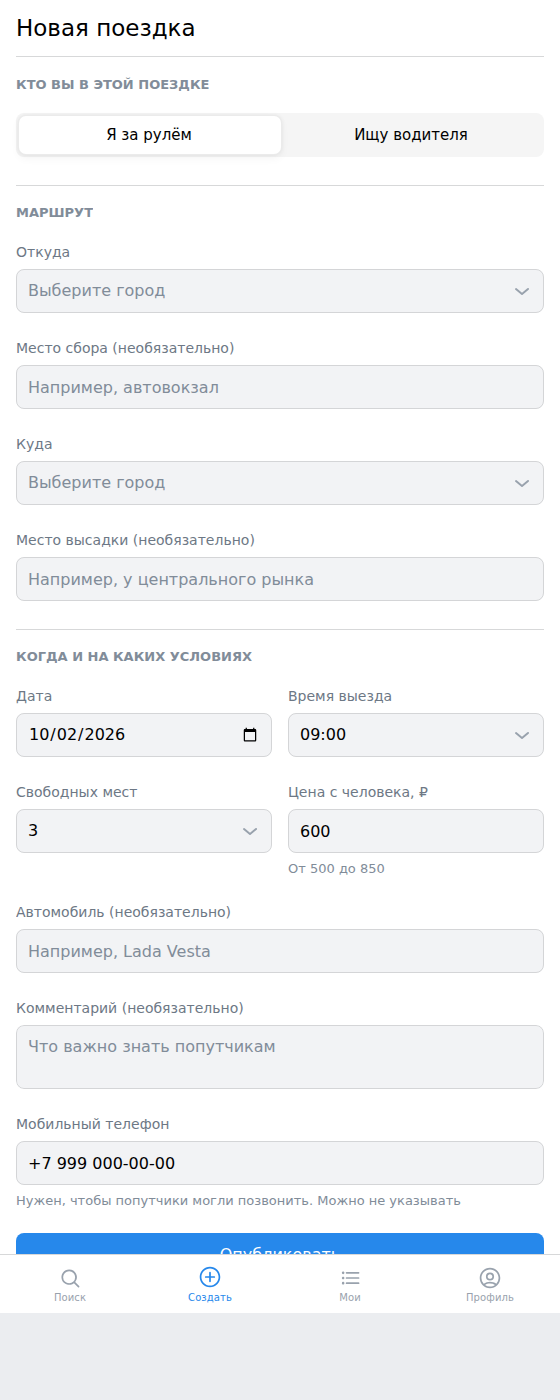
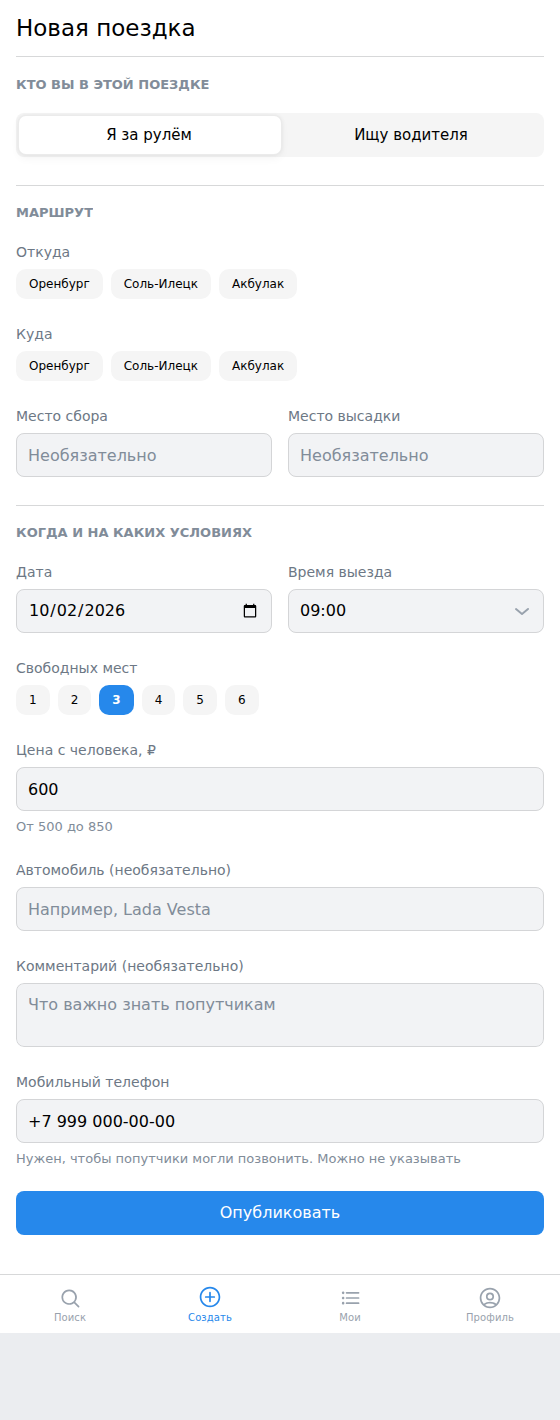
style: форма создания говорит тем же языком, что и поиск
Направление в форме выбиралось двумя выпадающими списками, хотя в поиске
те же три города выбираются «таблетками». Городов три, набор закрытый —
список был лишним шагом: открыть, выбрать, закрыть вместо одного касания.

- Откуда и Куда — «таблетки», как в поиске. Второй ряд сужается до
  достижимых городов, невозможный маршрут нельзя собрать.
- Места — «таблетки» 1–6: шесть однозначных чисел помещаются в строку, и
  выпадающий список ради них открывать незачем.
- Места сбора и высадки переехали под оба города и встали в одну строку.
  Раньше они стояли между «Откуда» и «Куда» и разрывали маршрут пополам.
- Цена освободилась от горизонтальной группы и занимает всю ширину.
- Подсказки «Например, автовокзал» заменены на «Необязательно»: в поле,
  которое и так подписано «Место сбора», пример занимал место, а
  необязательность поля была видна только из подписи.

Выпадающий список остался там, где вариантов правда много — время выезда,
48 слотов. Роль осталась сегмент-контролом: выбор из двух
взаимоисключающих вариантов он показывает лучше, чем два ярлыка.

Вся форма теперь помещается в один экран без прокрутки до кнопки.

eslint и typecheck чисты, 112 тестов API и 35 веба проходят, сборка
549.25 kB.

Claude-Session: https://claude.ai/code/session_01RjM5KUjrPyMD97q32CVPv1

diff --git a/apps/web/src/panels/CreatePanel.tsx b/apps/web/src/panels/CreatePanel.tsx
@@ -29,15 +29,16 @@ import {
 import { useState, type ReactNode } from 'react';
 
 import { ApiRequestError, api } from '../api/client.js';
+import { FilterChips, type ChipOption } from '../components/FilterChips.js';
 import { PhoneField } from '../components/PhoneField.js';
 import { toDateInputValue } from '../lib/format.js';
 import { useSession } from '../lib/SessionContext.js';
 import { useSnackbar } from '../lib/SnackbarContext.js';
 
-const toOptions = (cities: readonly { name: string }[]) =>
-  cities.map((city) => ({ value: city.name, label: city.name }));
-
-const allCityOptions = toOptions(CITIES);
+const cityChips: readonly ChipOption<string>[] = CITIES.map((city) => ({
+  value: city.name,
+  label: city.name,
+}));
 
 /** 48 получасовых слотов суток — время выезда выбирается только из них. */
 const timeOptions = DEPART_TIME_SLOTS.map((slot) => ({ value: slot, label: slot }));
@@ -49,7 +50,7 @@ const timeOptions = DEPART_TIME_SLOTS.map((slot) => ({ value: slot, label: slot 
  * зато он пускал в поле пустую строку, «3.5» и «e», а на телефоне
  * поднимал цифровую клавиатуру поверх формы ради одного нажатия.
  */
-const seatOptions = SEAT_OPTIONS.map((count) => ({
+const seatChips: readonly ChipOption<string>[] = SEAT_OPTIONS.map((count) => ({
   value: String(count),
   label: String(count),
 }));
@@ -219,8 +220,10 @@ export function CreatePanel({ id }: { id: string }): ReactNode {
 
   // Направления закрытые: показываем только достижимые города,
   // чтобы невозможный маршрут нельзя было и собрать.
-  const toCityOptions =
-    form.fromCity === '' ? allCityOptions : toOptions(destinationsFrom(form.fromCity));
+  const toCityChips: readonly ChipOption<string>[] =
+    form.fromCity === ''
+      ? cityChips
+      : destinationsFrom(form.fromCity).map((city) => ({ value: city.name, label: city.name }));
 
   const pickFromCity = (value: string): void => {
     update('fromCity', value);
@@ -249,28 +252,22 @@ export function CreatePanel({ id }: { id: string }): ReactNode {
       </Group>
 
       <Group header={<Header size="s">Маршрут</Header>}>
+        {/*
+          Те же «таблетки», что в поиске. Городов три, набор закрытый —
+          выпадающий список здесь был лишним шагом: открыть, выбрать,
+          закрыть вместо одного касания. Заодно оба города видны рядом, и
+          маршрут читается целиком, а не двумя полями через форму.
+        */}
         <FormItem
           top="Откуда"
           status={errors['fromCity'] === undefined ? 'default' : 'error'}
           bottom={errors['fromCity']}
         >
-          <CustomSelect
-            placeholder="Выберите город"
-            options={allCityOptions}
-            value={form.fromCity === '' ? null : form.fromCity}
-            onChange={(_, value) => {
-              pickFromCity(value === null ? '' : String(value));
-            }}
-          />
-        </FormItem>
-        <FormItem top="Место сбора (необязательно)">
-          <Input
-            maxLength={LIMITS.POINT_MAX}
-            placeholder="Например, автовокзал"
-            value={form.fromPoint}
-            onChange={(event) => {
-              update('fromPoint', event.target.value);
-            }}
+          <FilterChips
+            ariaLabel="Город отправления"
+            options={cityChips}
+            value={form.fromCity}
+            onChange={pickFromCity}
           />
         </FormItem>
 
@@ -279,25 +276,41 @@ export function CreatePanel({ id }: { id: string }): ReactNode {
           status={errors['toCity'] === undefined ? 'default' : 'error'}
           bottom={errors['toCity']}
         >
-          <CustomSelect
-            placeholder="Выберите город"
-            options={toCityOptions}
-            value={form.toCity === '' ? null : form.toCity}
-            onChange={(_, value) => {
-              update('toCity', value === null ? '' : String(value));
+          <FilterChips
+            ariaLabel="Город назначения"
+            options={toCityChips}
+            value={form.toCity}
+            onChange={(value) => {
+              update('toCity', value);
             }}
           />
         </FormItem>
-        <FormItem top="Место высадки (необязательно)">
-          <Input
-            maxLength={LIMITS.POINT_MAX}
-            placeholder="Например, у центрального рынка"
-            value={form.toPoint}
-            onChange={(event) => {
-              update('toPoint', event.target.value);
-            }}
-          />
-        </FormItem>
+
+        {/* Точки сбора и высадки — после обоих городов: сначала «куда едем»,
+            потом подробности. Раньше они стояли между городами и разрывали
+            маршрут пополам. */}
+        <FormLayoutGroup mode="horizontal">
+          <FormItem top="Место сбора">
+            <Input
+              maxLength={LIMITS.POINT_MAX}
+              placeholder="Необязательно"
+              value={form.fromPoint}
+              onChange={(event) => {
+                update('fromPoint', event.target.value);
+              }}
+            />
+          </FormItem>
+          <FormItem top="Место высадки">
+            <Input
+              maxLength={LIMITS.POINT_MAX}
+              placeholder="Необязательно"
+              value={form.toPoint}
+              onChange={(event) => {
+                update('toPoint', event.target.value);
+              }}
+            />
+          </FormItem>
+        </FormLayoutGroup>
       </Group>
 
       <Group header={<Header size="s">Когда и на каких условиях</Header>}>
@@ -330,39 +343,41 @@ export function CreatePanel({ id }: { id: string }): ReactNode {
           </FormItem>
         </FormLayoutGroup>
 
-        <FormLayoutGroup mode="horizontal">
-          <FormItem
-            top={isDriver ? 'Свободных мест' : 'Сколько вас едет'}
-            status={errors['seatsTotal'] === undefined ? 'default' : 'error'}
-            bottom={errors['seatsTotal']}
-          >
-            <CustomSelect
-              options={seatOptions}
-              value={form.seatsTotal}
-              onChange={(_, value) => {
-                update('seatsTotal', value === null ? '' : String(value));
-              }}
-            />
-          </FormItem>
-          <FormItem
-            top="Цена с человека, ₽"
-            status={errors['priceRub'] === undefined ? 'default' : 'error'}
-            bottom={errors['priceRub'] ?? `От ${LIMITS.PRICE_MIN} до ${LIMITS.PRICE_MAX}`}
-          >
-            <Input
-              type="number"
-              inputMode="numeric"
-              min={LIMITS.PRICE_MIN}
-              max={LIMITS.PRICE_MAX}
-              step={50}
-              required
-              value={form.priceRub}
-              onChange={(event) => {
-                update('priceRub', event.target.value);
-              }}
-            />
-          </FormItem>
-        </FormLayoutGroup>
+        <FormItem
+          top={isDriver ? 'Свободных мест' : 'Сколько вас едет'}
+          status={errors['seatsTotal'] === undefined ? 'default' : 'error'}
+          bottom={errors['seatsTotal']}
+        >
+          {/* Шесть однозначных чисел помещаются в строку — выпадающий
+              список ради них открывать незачем. */}
+          <FilterChips
+            ariaLabel="Количество мест"
+            options={seatChips}
+            value={form.seatsTotal}
+            onChange={(value) => {
+              update('seatsTotal', value);
+            }}
+          />
+        </FormItem>
+
+        <FormItem
+          top="Цена с человека, ₽"
+          status={errors['priceRub'] === undefined ? 'default' : 'error'}
+          bottom={errors['priceRub'] ?? `От ${LIMITS.PRICE_MIN} до ${LIMITS.PRICE_MAX}`}
+        >
+          <Input
+            type="number"
+            inputMode="numeric"
+            min={LIMITS.PRICE_MIN}
+            max={LIMITS.PRICE_MAX}
+            step={50}
+            required
+            value={form.priceRub}
+            onChange={(event) => {
+              update('priceRub', event.target.value);
+            }}
+          />
+        </FormItem>
 
         {isDriver && (
           <FormItem top="Автомобиль (необязательно)">

diff --git a/design/README.md b/design/README.md
@@ -89,9 +89,16 @@ ImageMagick, ни Pillow в окружении сборки нет, а Chromium 
 - **Одни и те же приёмы на разных экранах.** Плитки факта (`.app-tile`)
   показывают цену и места на экране поездки и рейтинг с числом поездок в
   профиле. Повторяющийся приём читается как система, а не как набор форм.
-- **Фильтры — один язык.** Направление, день и роль выбираются
-  одинаковыми «таблетками»; раньше там соседствовали чипы, сегмент-контрол
-  и текстовая ссылка.
+- **Один язык выбора на весь проект.** Направление, день и роль в поиске,
+  направление и число мест в форме создания — везде одинаковые
+  «таблетки». Городов три, мест шесть: выпадающий список под такой
+  замкнутый набор — лишний шаг (открыть, выбрать, закрыть вместо одного
+  касания), да и оба города видны рядом, так что маршрут читается целиком.
+  Выпадающий список остался там, где вариантов правда много: время выезда,
+  48 получасовых слотов.
+- **Роль в форме осталась сегмент-контролом.** Это не непоследовательность:
+  «за рулём / ищу водителя» — выбор из двух взаимоисключающих вариантов, и
+  сегмент-контрол показывает это лучше, чем два отдельных ярлыка.
 - **Нижняя панель** оставлена штатным компонентом VKUI, переопределён
   только вид. Высота задаётся через `--vkui_internal--tabbar_height`:
   VKUI берёт из неё отступ содержимого, поэтому своя разметка панели
